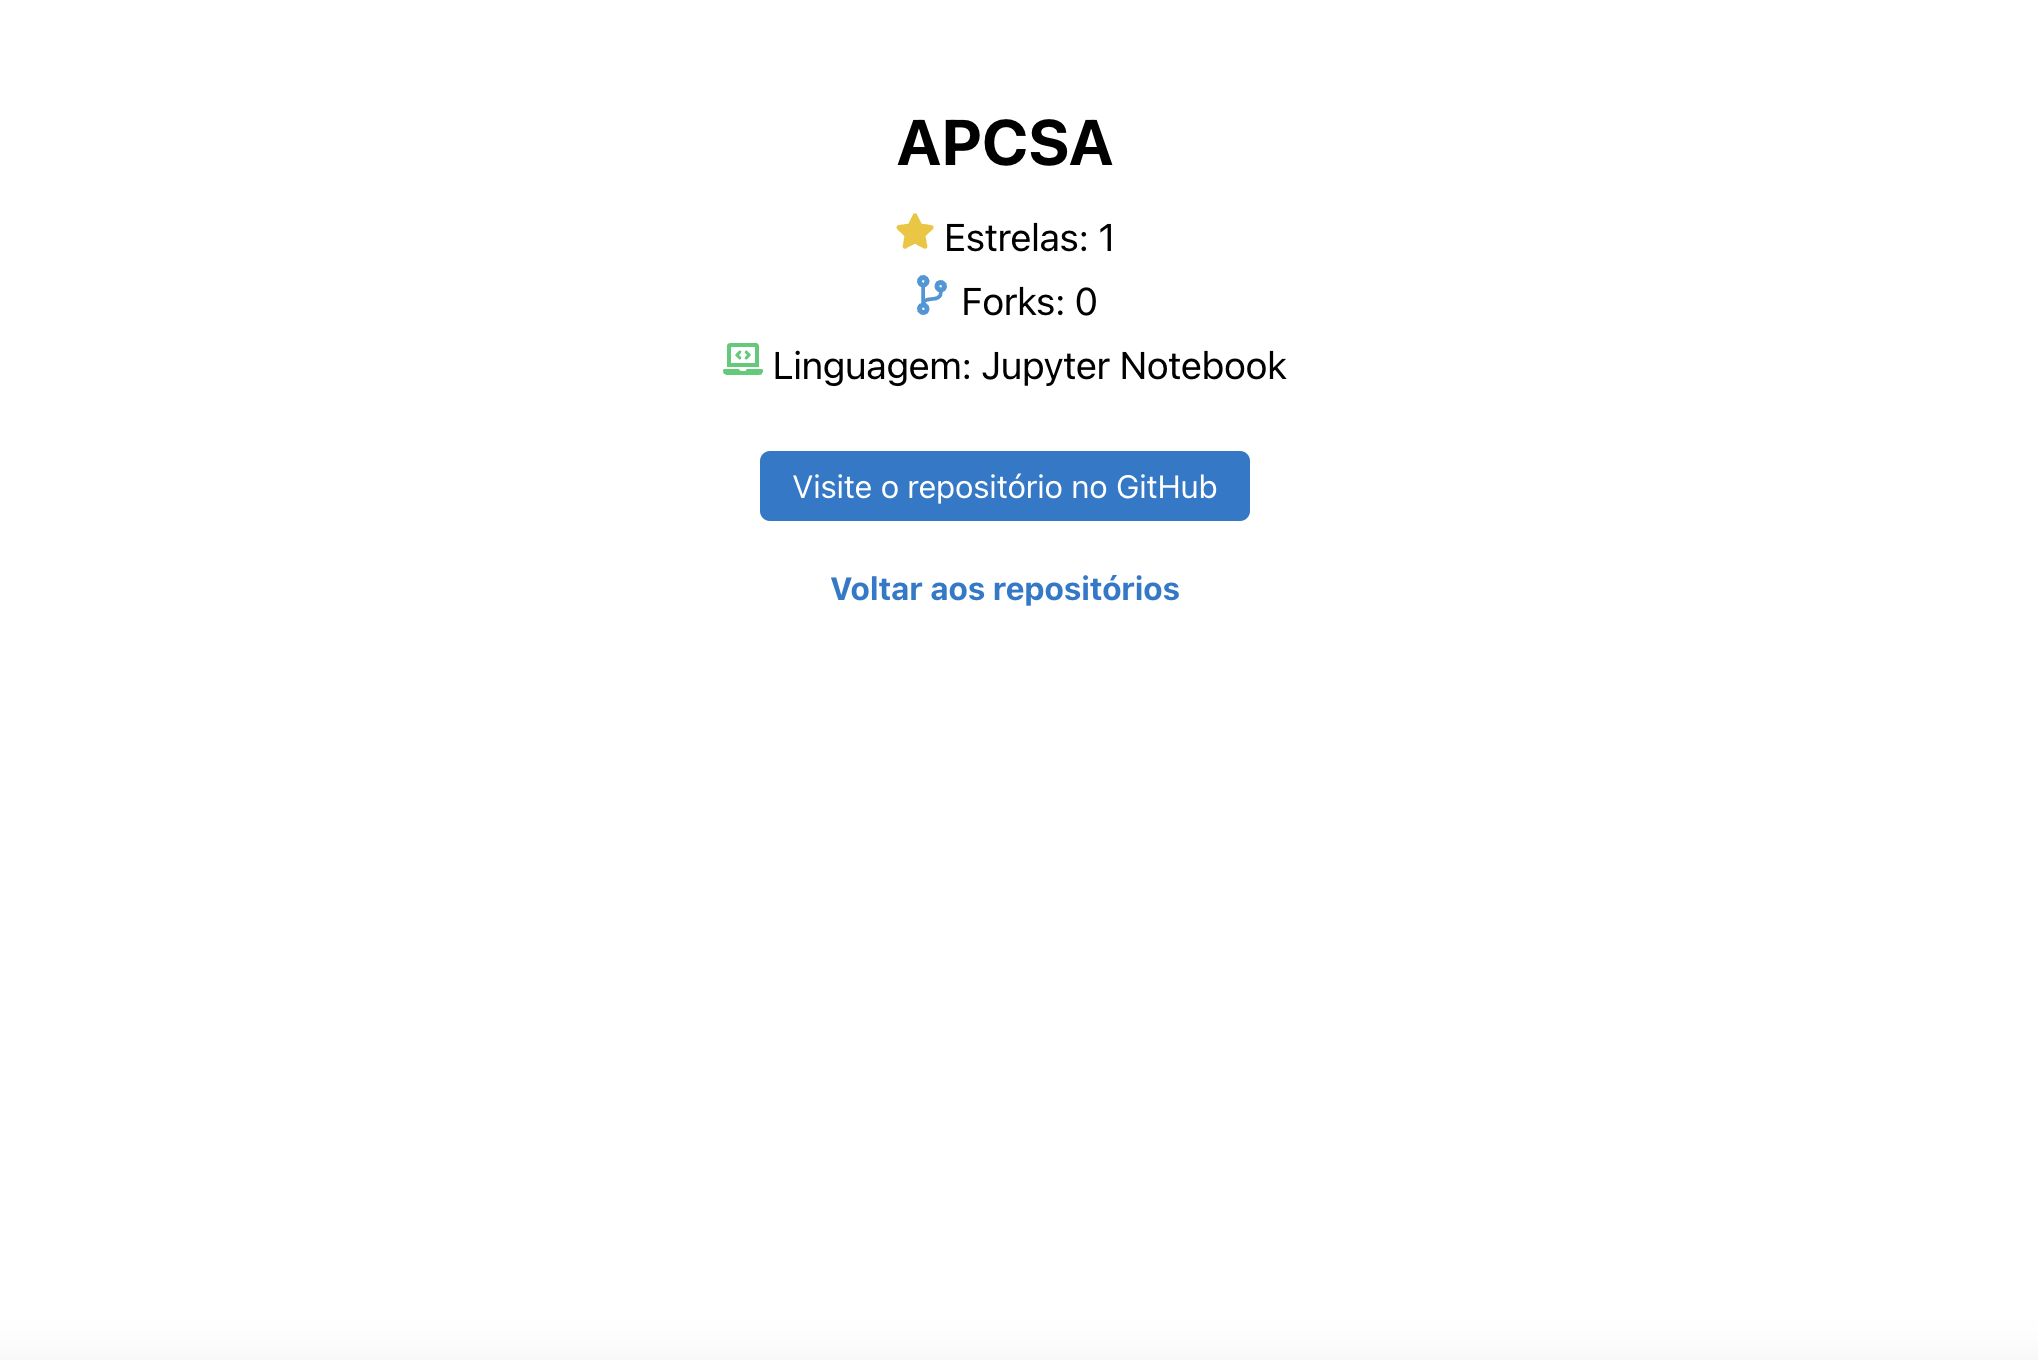
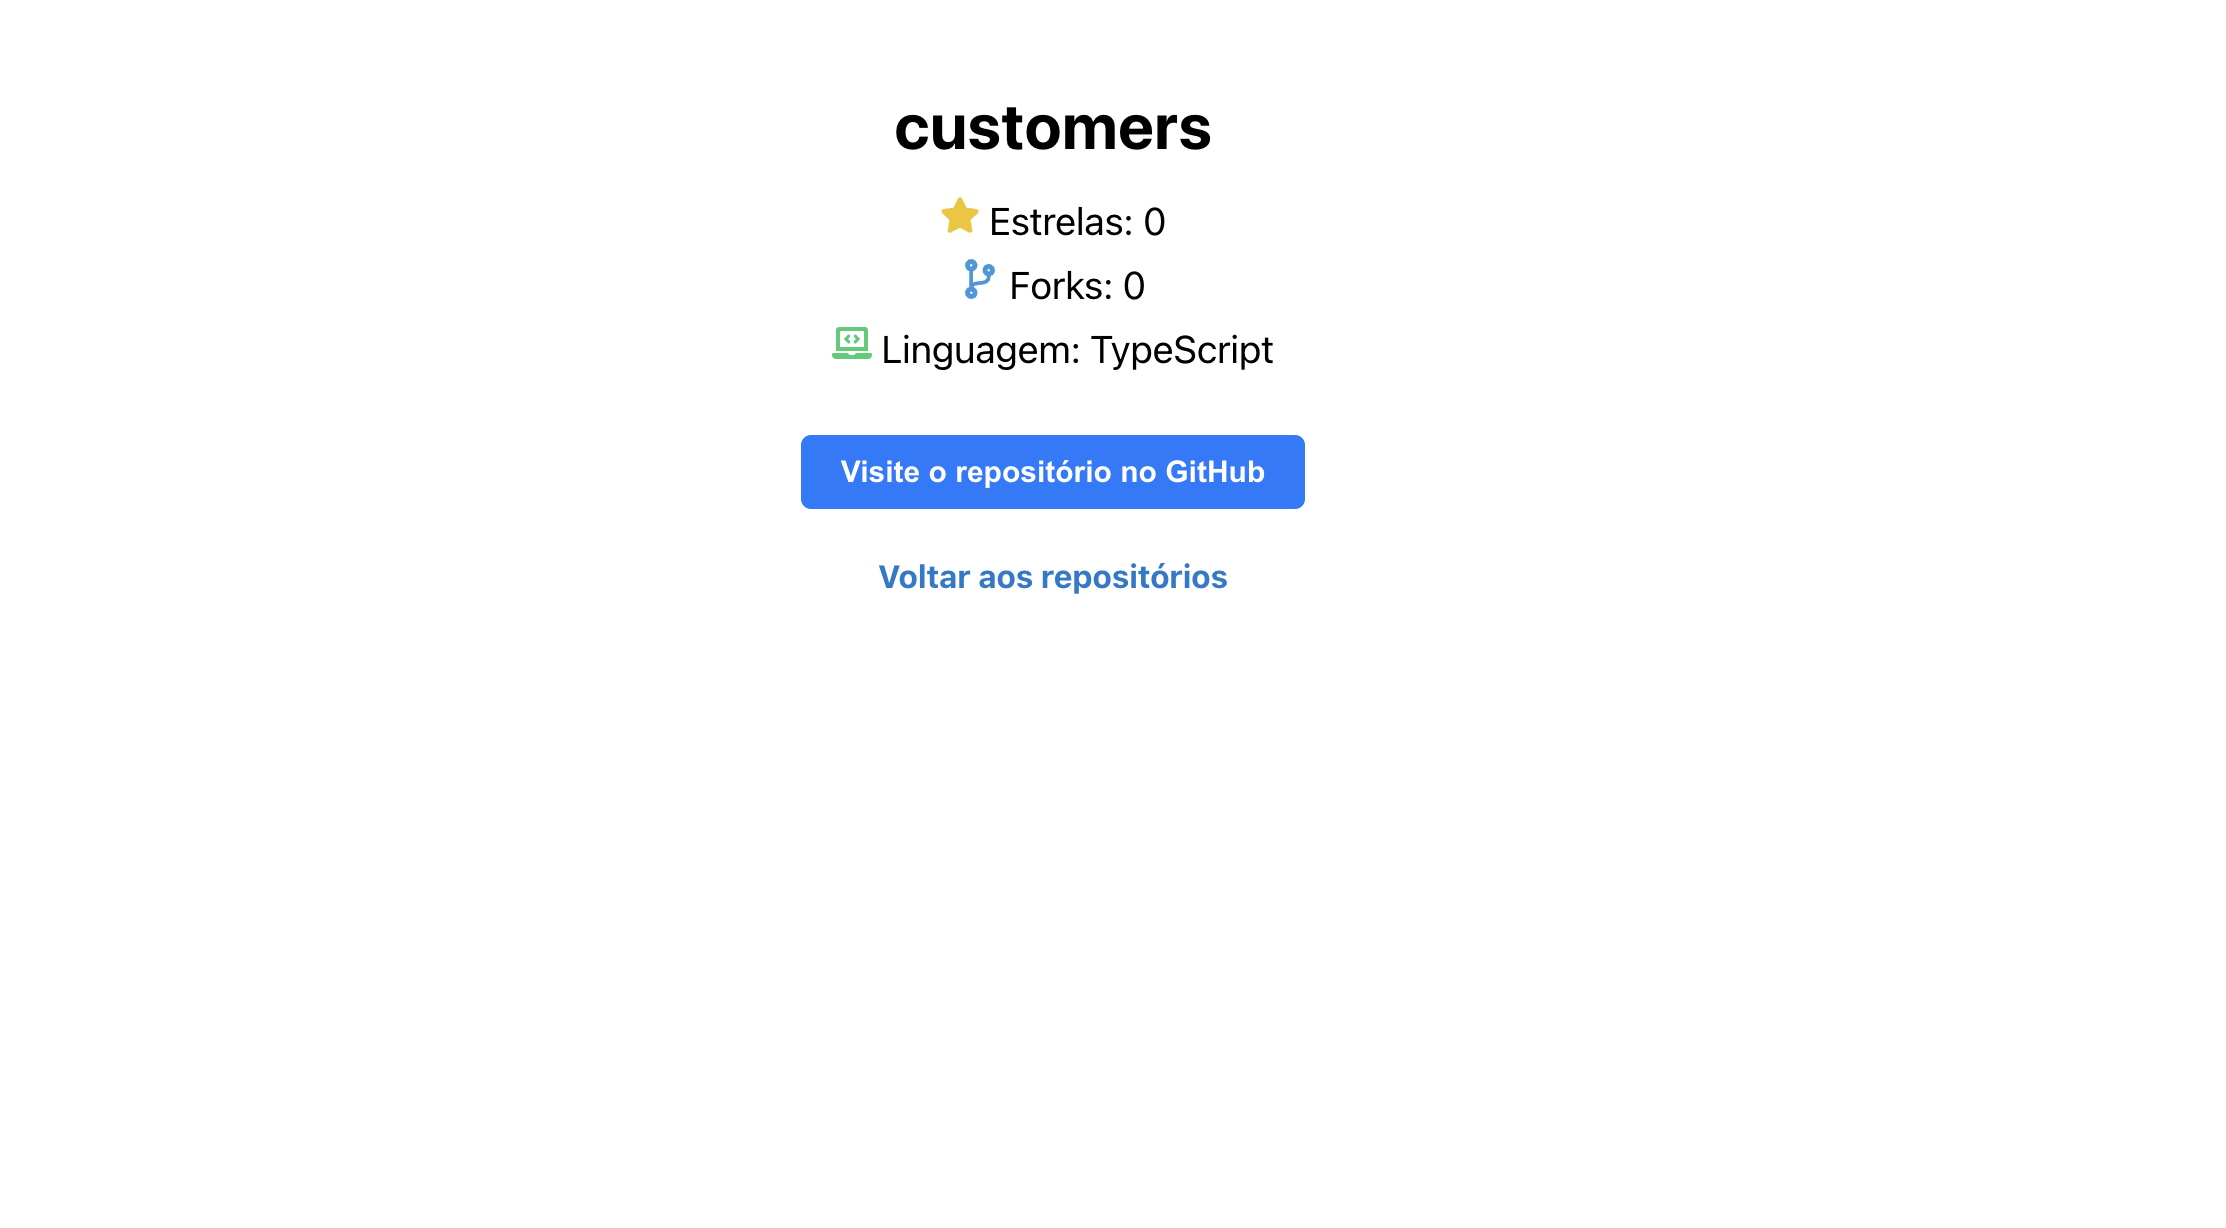
Adicionado o componente botao ni repoDetails

Changed region(s): [[0.34, 0.1547, 0.6492, 0.4951], [0.4019, 0.0619, 0.5564, 0.1238]]

diff --git a/src/pages/RepoDetails/RepoDetails.jsx b/src/pages/RepoDetails/RepoDetails.jsx
@@ -4,6 +4,7 @@ import api from "../../services/api";
 import Spinner from "../../components/Spinner/Spinner";
 import { FaStar, FaCodeBranch, FaLaptopCode } from "react-icons/fa";
 import "./RepoDetails.css";
+import Button from "../../components/Button/Button";
 
 function RepoDetails() {
   const { owner, repo } = useParams();
@@ -17,6 +18,10 @@ function RepoDetails() {
 
     fetchRepoDetails();
   }, [owner, repo]);
+
+  function handleRepoDetails() {
+    window.open(repoDetails.html_url, "_blank");
+  }
 
   if (!repoDetails) {
     return <Spinner />;
@@ -39,14 +44,11 @@ function RepoDetails() {
           {repoDetails.language || "Não especificada"}
         </li>
       </ul>
-      <a
-        href={repoDetails.html_url}
-        target="_blank"
-        rel="noopener noreferrer"
-        className="link"
-      >
+
+      <Button onClick={handleRepoDetails} className="repo-url">
         Visite o repositório no GitHub
-      </a>
+      </Button>
+
       <Link to={`/user/${owner}`} className="back-link">
         Voltar aos repositórios
       </Link>

diff --git a/src/components/Button/Button.jsx b/src/components/Button/Button.jsx
@@ -1,8 +1,8 @@
 import "./Button.css";
 
-function Button({ children, onClick, type = "button", icon: Icon }) {
+function Button({ children, onClick, type = "button", icon: Icon, className}) {
   return (
-    <button className="button" type={type} onClick={onClick}>
+    <button   className={`button ${className || ""}`} type={type} onClick={onClick}>
       {Icon && <Icon className="button-icon" />}
       {children}
     </button>

diff --git a/src/pages/RepoDetails/RepoDetails.css b/src/pages/RepoDetails/RepoDetails.css
@@ -53,3 +53,7 @@ ul li {
 .back-link:hover {
   text-decoration: underline;
 }
+
+.repo-url {
+  display: inline;
+}
